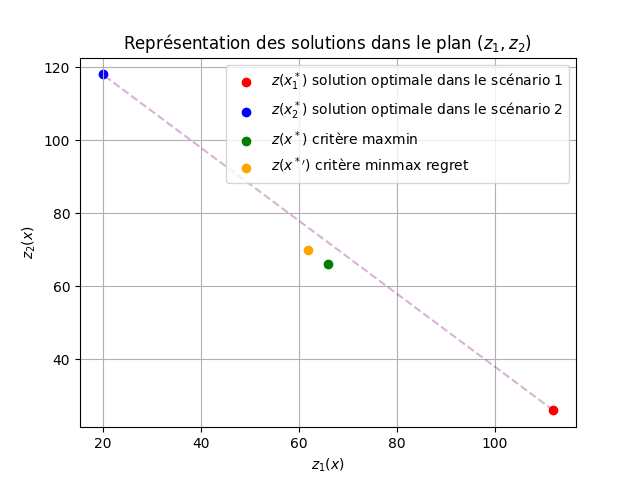
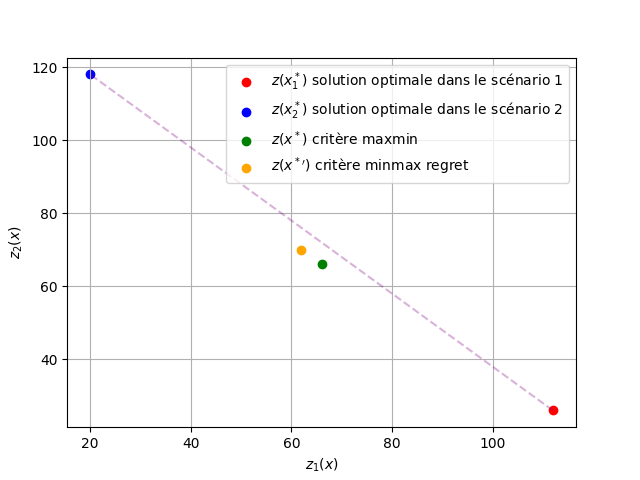
visualisation without title

diff --git a/visualisation.py b/visualisation.py
@@ -29,7 +29,7 @@ plt.plot([z1[0], z1[1]], [z2[0], z2[1]], alpha = 0.3, color='purple', linestyle=
 
 plt.xlabel(r'$z_1(x)$')
 plt.ylabel(r'$z_2(x)$')
-plt.title('Représentation des solutions dans le plan $(z_1, z_2)$')
+# plt.title('Représentation des solutions dans le plan $(z_1, z_2)$')
 plt.legend()
 
 plt.grid(True)
